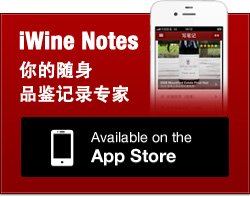
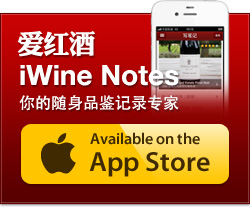
app ad update

diff --git a/public/template/notes_detail.html b/public/template/notes_detail.html
@@ -231,7 +231,7 @@ document.onclick = mclose;
                 </div>
             </div>
             <div class="right">
-      	<div class="sidebox"><img src="images/common/notes_ad.jpg" width="250" height="197" /></div>
+      	<div class="sidebox"><a href="https://itunes.apple.com/cn/app/iwine-notes/id572825000?ls=1&amp;mt=8&quot;" target="_blank"><img src="images/common/notes_ad.jpg" alt="iWine Notes" width="250" height="207" /></a></div>
         <div class="sidebox"><a href="#"><img src="images/common/btn_add_notes.jpg" alt="我也喝过，去写品酒辞！" width="250" height="50" /></a></div>
       	<div class="sidebox">
           <div class="title">
